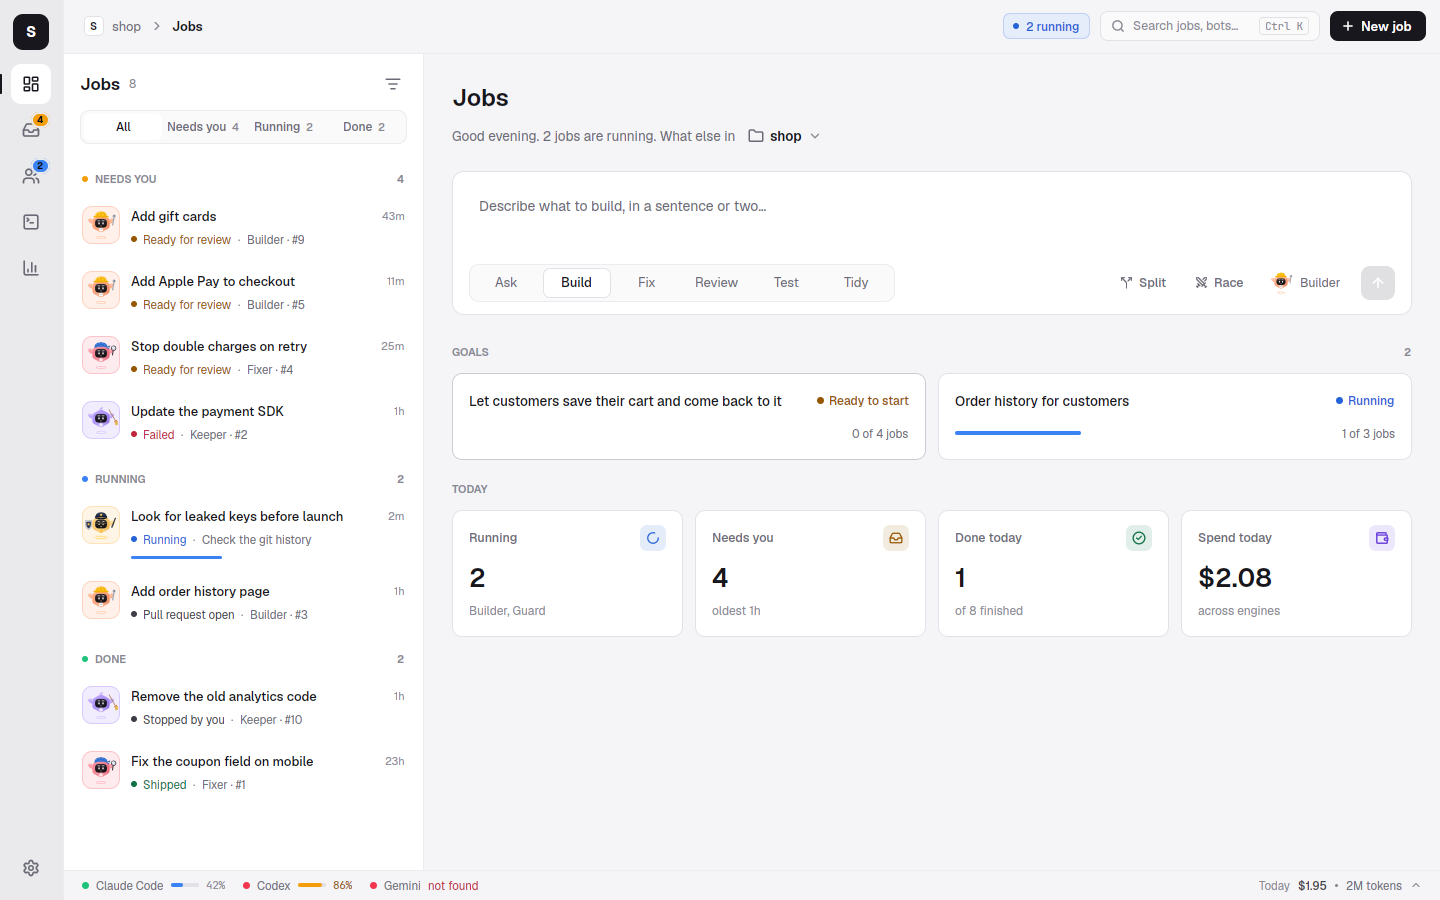
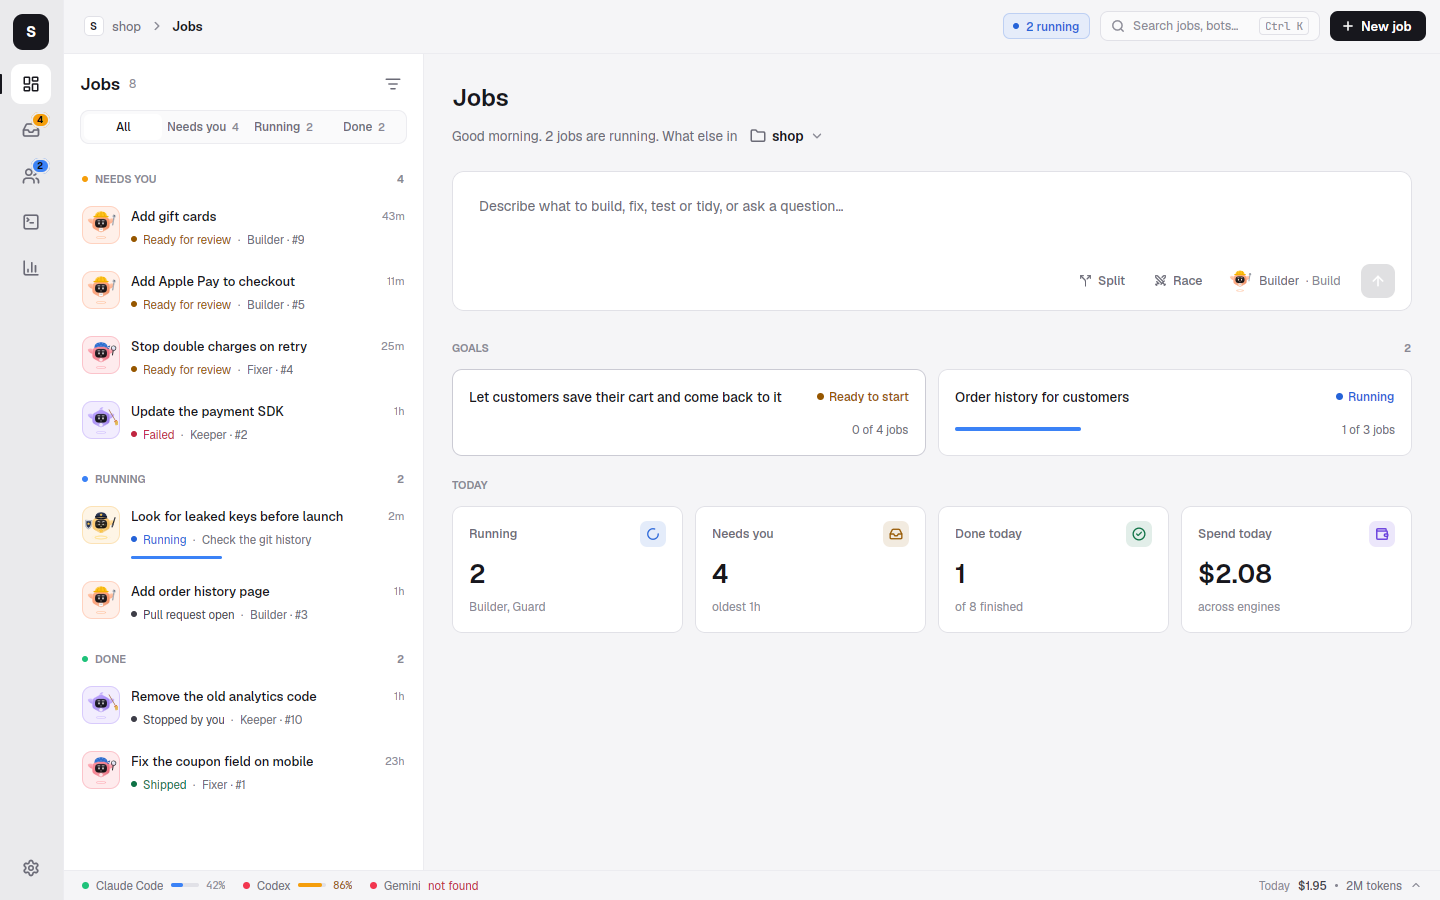
Read the kind of work from the job box instead of asking
The six mode tabs are gone. Mode::guess reads the request as it's typed
(a question is Ask, an error or bug is Fix, "refactor" is Tidy, and so
on, else Build), and the bot chip shows who takes it and what it reads it
as. Give a job and hand-offs from chat still set the kind on purpose,
until that job is sent.

diff --git a/native/runo-app/src/v2/today.rs b/native/runo-app/src/v2/today.rs
@@ -9,7 +9,7 @@ use gpui_kit::*;
 
 use runo_holo::{Framing, Mood};
 
-use super::data::{Member, Mode};
+use super::data::Mode;
 use super::store::{self, Status};
 use super::ui::{self, c, ca};
 use super::Pane;
@@ -54,9 +54,6 @@ fn full_name() -> Option<String> {
     let text = text.split(':').nth(4)?.split(',').next()?.to_string();
     (!text.is_empty()).then_some(text)
 }
-
-/// A mode tab's width: the bot's face and the word.
-const TAB: f32 = 68.;
 
 fn greeting() -> String {
     use chrono::Timelike;
@@ -178,76 +175,15 @@ impl Shell {
     }
 
     fn composer_card(&mut self, cx: &mut Context<Self>) -> impl IntoElement {
+        // The kind of work comes from what's typed, unless a job was set up
+        // on purpose (Give a job, a hand-off from chat).
+        if !self.mode_pinned {
+            self.mode = Mode::guess(&self.composer.read(cx).value());
+        }
         let target = self.doer();
         let ready =
             !self.composer.read(cx).value().trim().is_empty() || self.mode.default_job().is_some();
         let face = self.avatar(target, 26.);
-        // The white highlight glides under the tabs as the mode changes.
-        let x = self.mode_x();
-        let mut modes = div()
-            .relative()
-            .flex()
-            .items_center()
-            .p(px(3.))
-            .gap(px(super::MODE_STEP - TAB))
-            .rounded(px(10.))
-            .bg(c(ui::well()))
-            .border_1()
-            .border_color(c(ui::line2()))
-            .child(
-                div()
-                    .absolute()
-                    .top(px(3.))
-                    .left(px(3. + x))
-                    .w(px(TAB))
-                    .h(px(30.))
-                    .rounded(px(7.))
-                    .bg(c(ui::raised()))
-                    .border_1()
-                    .border_color(c(ui::line())),
-            );
-        // Every kind of work. One nobody on the crew does yet is fainter, and a
-        // job sent in it makes Fin offer the bot for it.
-        for (i, m) in Mode::ALL.into_iter().enumerate() {
-            let on = self.mode == m;
-            let staffed = Member::doer_for(m).is_some();
-            modes = modes.child(
-                div()
-                    .id(("mode", i))
-                    .w(px(TAB))
-                    .h(px(30.))
-                    .flex()
-                    .items_center()
-                    .justify_center()
-                    .gap(px(5.))
-                    .rounded(px(7.))
-                    .text_size(px(13.))
-                    .cursor_pointer()
-                    .map(|d| {
-                        if on {
-                            d.font_weight(FontWeight::MEDIUM).text_color(c(ui::ink()))
-                        } else {
-                            d.text_color(c(if staffed { ui::muted() } else { ui::faint() }))
-                                .hover(|s| s.text_color(c(ui::ink())))
-                        }
-                    })
-                    .child(m.label())
-                    .when(!staffed, |d| {
-                        let who = Member::for_mode(m).name();
-                        d.tooltip(move |window, cx| {
-                            gpui_kit::component::tooltip::Tooltip::new(format!(
-                                "Nobody on your crew does this yet. Send a job and Fin offers {who}."
-                            ))
-                            .build(window, cx)
-                        })
-                    })
-                    .on_click(cx.listener(move |this, _, window, cx| {
-                        this.target = None;
-                        this.set_mode(m, window, cx);
-                        this.composer.update(cx, |i, cx| i.focus(window, cx));
-                    })),
-            );
-        }
         let engine = super::engine::label(cx.global::<crate::settings::AppSettings>(), target);
         let box_ = div()
             .flex_1()
@@ -272,7 +208,6 @@ impl Shell {
                     .flex_wrap()
                     .items_center()
                     .gap(px(8.))
-                    .child(modes)
                     .child(div().flex_1())
                     .when(self.mode.writes(), |d| {
                         let on = self.splitting;
@@ -340,6 +275,12 @@ impl Shell {
                             } else {
                                 format!("{} (Fin asks first)", target.name())
                             })
+                            // What it reads the request as, so a wrong guess shows.
+                            .child(
+                                div()
+                                    .text_color(c(ui::faint()))
+                                    .child(format!("· {}", self.mode.label())),
+                            )
                             .tooltip(move |window, cx| {
                                 gpui_kit::component::tooltip::Tooltip::new(format!(
                                     "Runs on {engine}. Click to change it."
@@ -377,6 +318,7 @@ impl Shell {
                                 this.composer
                                     .update(cx, |i, cx| i.set_value("", window, cx));
                                 this.hand_over(text, cx);
+                                this.unpin_mode(window, cx);
                             })),
                     ),
             );

diff --git a/native/runo-app/src/v2/mod.rs b/native/runo-app/src/v2/mod.rs
@@ -480,9 +480,9 @@ pub struct Shell {
     nav_at: Instant,
     /// Progress bars' shown values, by job, so they glide.
     bars: HashMap<u64, f32>,
-    /// Today's mode tabs: the highlight glides from one to the next.
-    mode_from: f32,
-    mode_at: Instant,
+    /// The job box's kind of work was set on purpose (Give a job, a hand-off),
+    /// so it isn't guessed from the text until that job is sent.
+    mode_pinned: bool,
     /// The Inbox count last frame, and when it last went up, for the badge's pop.
     inbox_seen: usize,
     inbox_at: Instant,
@@ -563,9 +563,6 @@ fn doze_after() -> Duration {
 /// Extra room at the bottom of a page (the crew is in the sidebar now).
 pub(super) const DOCK_ROOM: f32 = 16.;
 
-/// Width of one of Today's mode tabs plus the gap after it.
-const MODE_STEP: f32 = 70.;
-
 /// The rail's place for each part of the app, as a y offset of its highlight.
 fn nav_slot(place: Place) -> Option<f32> {
     let i = match place {
@@ -584,7 +581,7 @@ impl Shell {
         // A long job wraps and the box grows with it; Shift+Enter starts a new line.
         let composer = cx.new(|cx| {
             TextareaState::new(window, cx)
-                .placeholder(Mode::Build.placeholder())
+                .placeholder(Mode::ANY_PLACEHOLDER)
                 .submit_on_enter(true)
                 .auto_grow(1, 6)
         });
@@ -622,6 +619,7 @@ impl Shell {
                     let text = input.read(cx).value().trim().to_string();
                     input.update(cx, |i, cx| i.set_value("", window, cx));
                     this.hand_over(text, cx);
+                    this.unpin_mode(window, cx);
                 }
             }),
             cx.subscribe_in(&chat_input, window, |this, input, event, window, cx| {
@@ -797,8 +795,7 @@ impl Shell {
             nav_to: nav_slot(start).unwrap_or(0.),
             nav_at: Instant::now(),
             bars: HashMap::new(),
-            mode_from: MODE_STEP,
-            mode_at: Instant::now(),
+            mode_pinned: false,
             inbox_seen: usize::MAX,
             inbox_at: Instant::now(),
             chat_at: Instant::now(),
@@ -872,17 +869,6 @@ impl Shell {
         }
     }
 
-    /// Where Today's mode highlight is now, in pixels from the first tab.
-    fn mode_x(&self) -> f32 {
-        let to = Mode::ALL
-            .into_iter()
-            .position(|m| m == self.mode)
-            .unwrap_or(0) as f32
-            * MODE_STEP;
-        let k = runo_holo::anim::spring(self.mode_at.elapsed().as_secs_f64(), 0.3) as f32;
-        self.mode_from + (to - self.mode_from) * k
-    }
-
     /// How far item `i` of the current place has eased in, 0 → 1; each item
     /// starts a beat after the one before.
     fn stagger(&self, i: usize) -> f32 {
@@ -923,15 +909,25 @@ impl Shell {
     }
 
     fn set_mode(&mut self, mode: Mode, window: &mut Window, cx: &mut Context<Self>) {
-        if mode != self.mode {
-            self.mode_from = self.mode_x();
-            self.mode_at = Instant::now();
-        }
         self.mode = mode;
+        self.mode_pinned = true;
         self.composer.update(cx, |i, cx| {
             i.set_placeholder(mode.placeholder(), window, cx)
         });
         cx.notify();
+    }
+
+    /// Once a job is sent (and not held for Fin's offer), the next one's kind
+    /// of work is read from its text again.
+    fn unpin_mode(&mut self, window: &mut Window, cx: &mut Context<Self>) {
+        if self.offer.is_some() || !self.mode_pinned {
+            return;
+        }
+        self.mode_pinned = false;
+        self.target = None;
+        self.composer.update(cx, |i, cx| {
+            i.set_placeholder(Mode::ANY_PLACEHOLDER, window, cx)
+        });
     }
 
     fn say(&mut self, text: impl Into<SharedString>) {
@@ -973,6 +969,9 @@ impl Shell {
     /// The text from Today's box becomes a job for the bot its mode goes to, or a
     /// question for Explainer.
     fn hand_over(&mut self, text: String, cx: &mut Context<Self>) {
+        if !self.mode_pinned {
+            self.mode = Mode::guess(&text);
+        }
         let text = match (text.is_empty(), self.mode.default_job()) {
             (false, _) => text,
             (true, Some(d)) => d.to_string(),
@@ -1095,6 +1094,7 @@ impl Shell {
         self.set_mode(o.mode, window, cx);
         let added = self.toast.clone();
         self.hand_over(o.text, cx);
+        self.unpin_mode(window, cx);
         // Keep "Added Fixer" showing unless starting the job had more to say.
         if self.toast.is_none() {
             self.toast = added;
@@ -1685,7 +1685,6 @@ impl Render for Shell {
         // What the last frame needed sets the clock for the next one.
         let busy = self.entered.elapsed() < Duration::from_millis(1000)
             || (self.palette && self.palette_at.elapsed() < Duration::from_millis(600))
-            || self.mode_at.elapsed() < Duration::from_millis(500)
             || self.inbox_at.elapsed() < Duration::from_millis(700)
             || self.chat_at.elapsed() < Duration::from_millis(500)
             || self.nav_at.elapsed() < Duration::from_millis(600)

diff --git a/native/runo-app/src/v2/data.rs b/native/runo-app/src/v2/data.rs
@@ -434,6 +434,10 @@ impl Mode {
         !matches!(self, Mode::Ask | Mode::Review)
     }
 
+    /// The job box's hint while the kind of work is still read from the text.
+    pub const ANY_PLACEHOLDER: &'static str =
+        "Describe what to build, fix, test or tidy, or ask a question…";
+
     pub fn placeholder(self) -> &'static str {
         match self {
             Mode::Ask => "Ask anything about the code…",
@@ -446,6 +450,61 @@ impl Mode {
     }
 
     /// The job when the box is left empty, for the modes that have one.
+    /// The kind of work a request reads as, so the job box never asks: a
+    /// question is Ask, an error or bug is Fix, and so on; anything else is
+    /// Build. The first word counts most, then keywords anywhere in it.
+    pub fn guess(text: &str) -> Mode {
+        let t = text.trim().to_lowercase();
+        if t.is_empty() {
+            return Mode::Build;
+        }
+        let first = t
+            .split(|c: char| !c.is_alphanumeric())
+            .find(|w| !w.is_empty())
+            .unwrap_or("");
+        let has = |words: &[&str]| words.iter().any(|w| t.contains(w));
+        match first {
+            "fix" | "debug" | "repair" | "resolve" => return Mode::Fix,
+            "test" | "run" | "verify" | "try" => return Mode::Test,
+            "review" | "audit" | "inspect" => return Mode::Review,
+            "tidy" | "refactor" | "clean" | "cleanup" | "rename" | "simplify" | "format"
+            | "lint" | "reorganize" | "reorganise" => return Mode::Tidy,
+            "add" | "build" | "make" | "create" | "implement" | "write" | "new" => {
+                return Mode::Build
+            }
+            "what" | "why" | "how" | "where" | "which" | "who" | "when" | "explain" | "does"
+            | "do" | "is" | "are" | "can" | "should" | "tell" | "describe" | "summarize"
+            | "summarise" => return Mode::Ask,
+            _ => {}
+        }
+        if t.ends_with('?') {
+            Mode::Ask
+        } else if has(&[
+            "error",
+            "bug",
+            "broken",
+            "crash",
+            "exception",
+            "traceback",
+            "panic",
+            "fails",
+            "failing",
+            "doesn't work",
+            "not working",
+            "stack trace",
+        ]) {
+            Mode::Fix
+        } else if has(&["review", "look over", "audit"]) {
+            Mode::Review
+        } else if has(&["refactor", "clean up", "dead code", "tidy"]) {
+            Mode::Tidy
+        } else if has(&["run the tests", "test suite", "coverage"]) {
+            Mode::Test
+        } else {
+            Mode::Build
+        }
+    }
+
     pub fn default_job(self) -> Option<&'static str> {
         match self {
             Mode::Review => Some("Review my uncommitted changes"),
@@ -459,6 +518,23 @@ impl Mode {
 #[cfg(test)]
 mod tests {
     use super::*;
+
+    #[test]
+    fn the_job_box_reads_the_kind_of_work() {
+        assert_eq!(Mode::guess("Add a dark mode toggle"), Mode::Build);
+        assert_eq!(Mode::guess("Checkout page shows a blank cart"), Mode::Build);
+        assert_eq!(Mode::guess("How does the retry logic work?"), Mode::Ask);
+        assert_eq!(Mode::guess("the login form, is it validated?"), Mode::Ask);
+        assert_eq!(
+            Mode::guess("TypeError: cannot read property 'id' of undefined"),
+            Mode::Fix
+        );
+        assert_eq!(Mode::guess("Fix the coupon field on mobile"), Mode::Fix);
+        assert_eq!(Mode::guess("Review my uncommitted changes"), Mode::Review);
+        assert_eq!(Mode::guess("Run the tests and report failures"), Mode::Test);
+        assert_eq!(Mode::guess("Refactor the payment module"), Mode::Tidy);
+        assert_eq!(Mode::guess(""), Mode::Build);
+    }
 
     #[test]
     fn made_bots_join_the_crew() {
